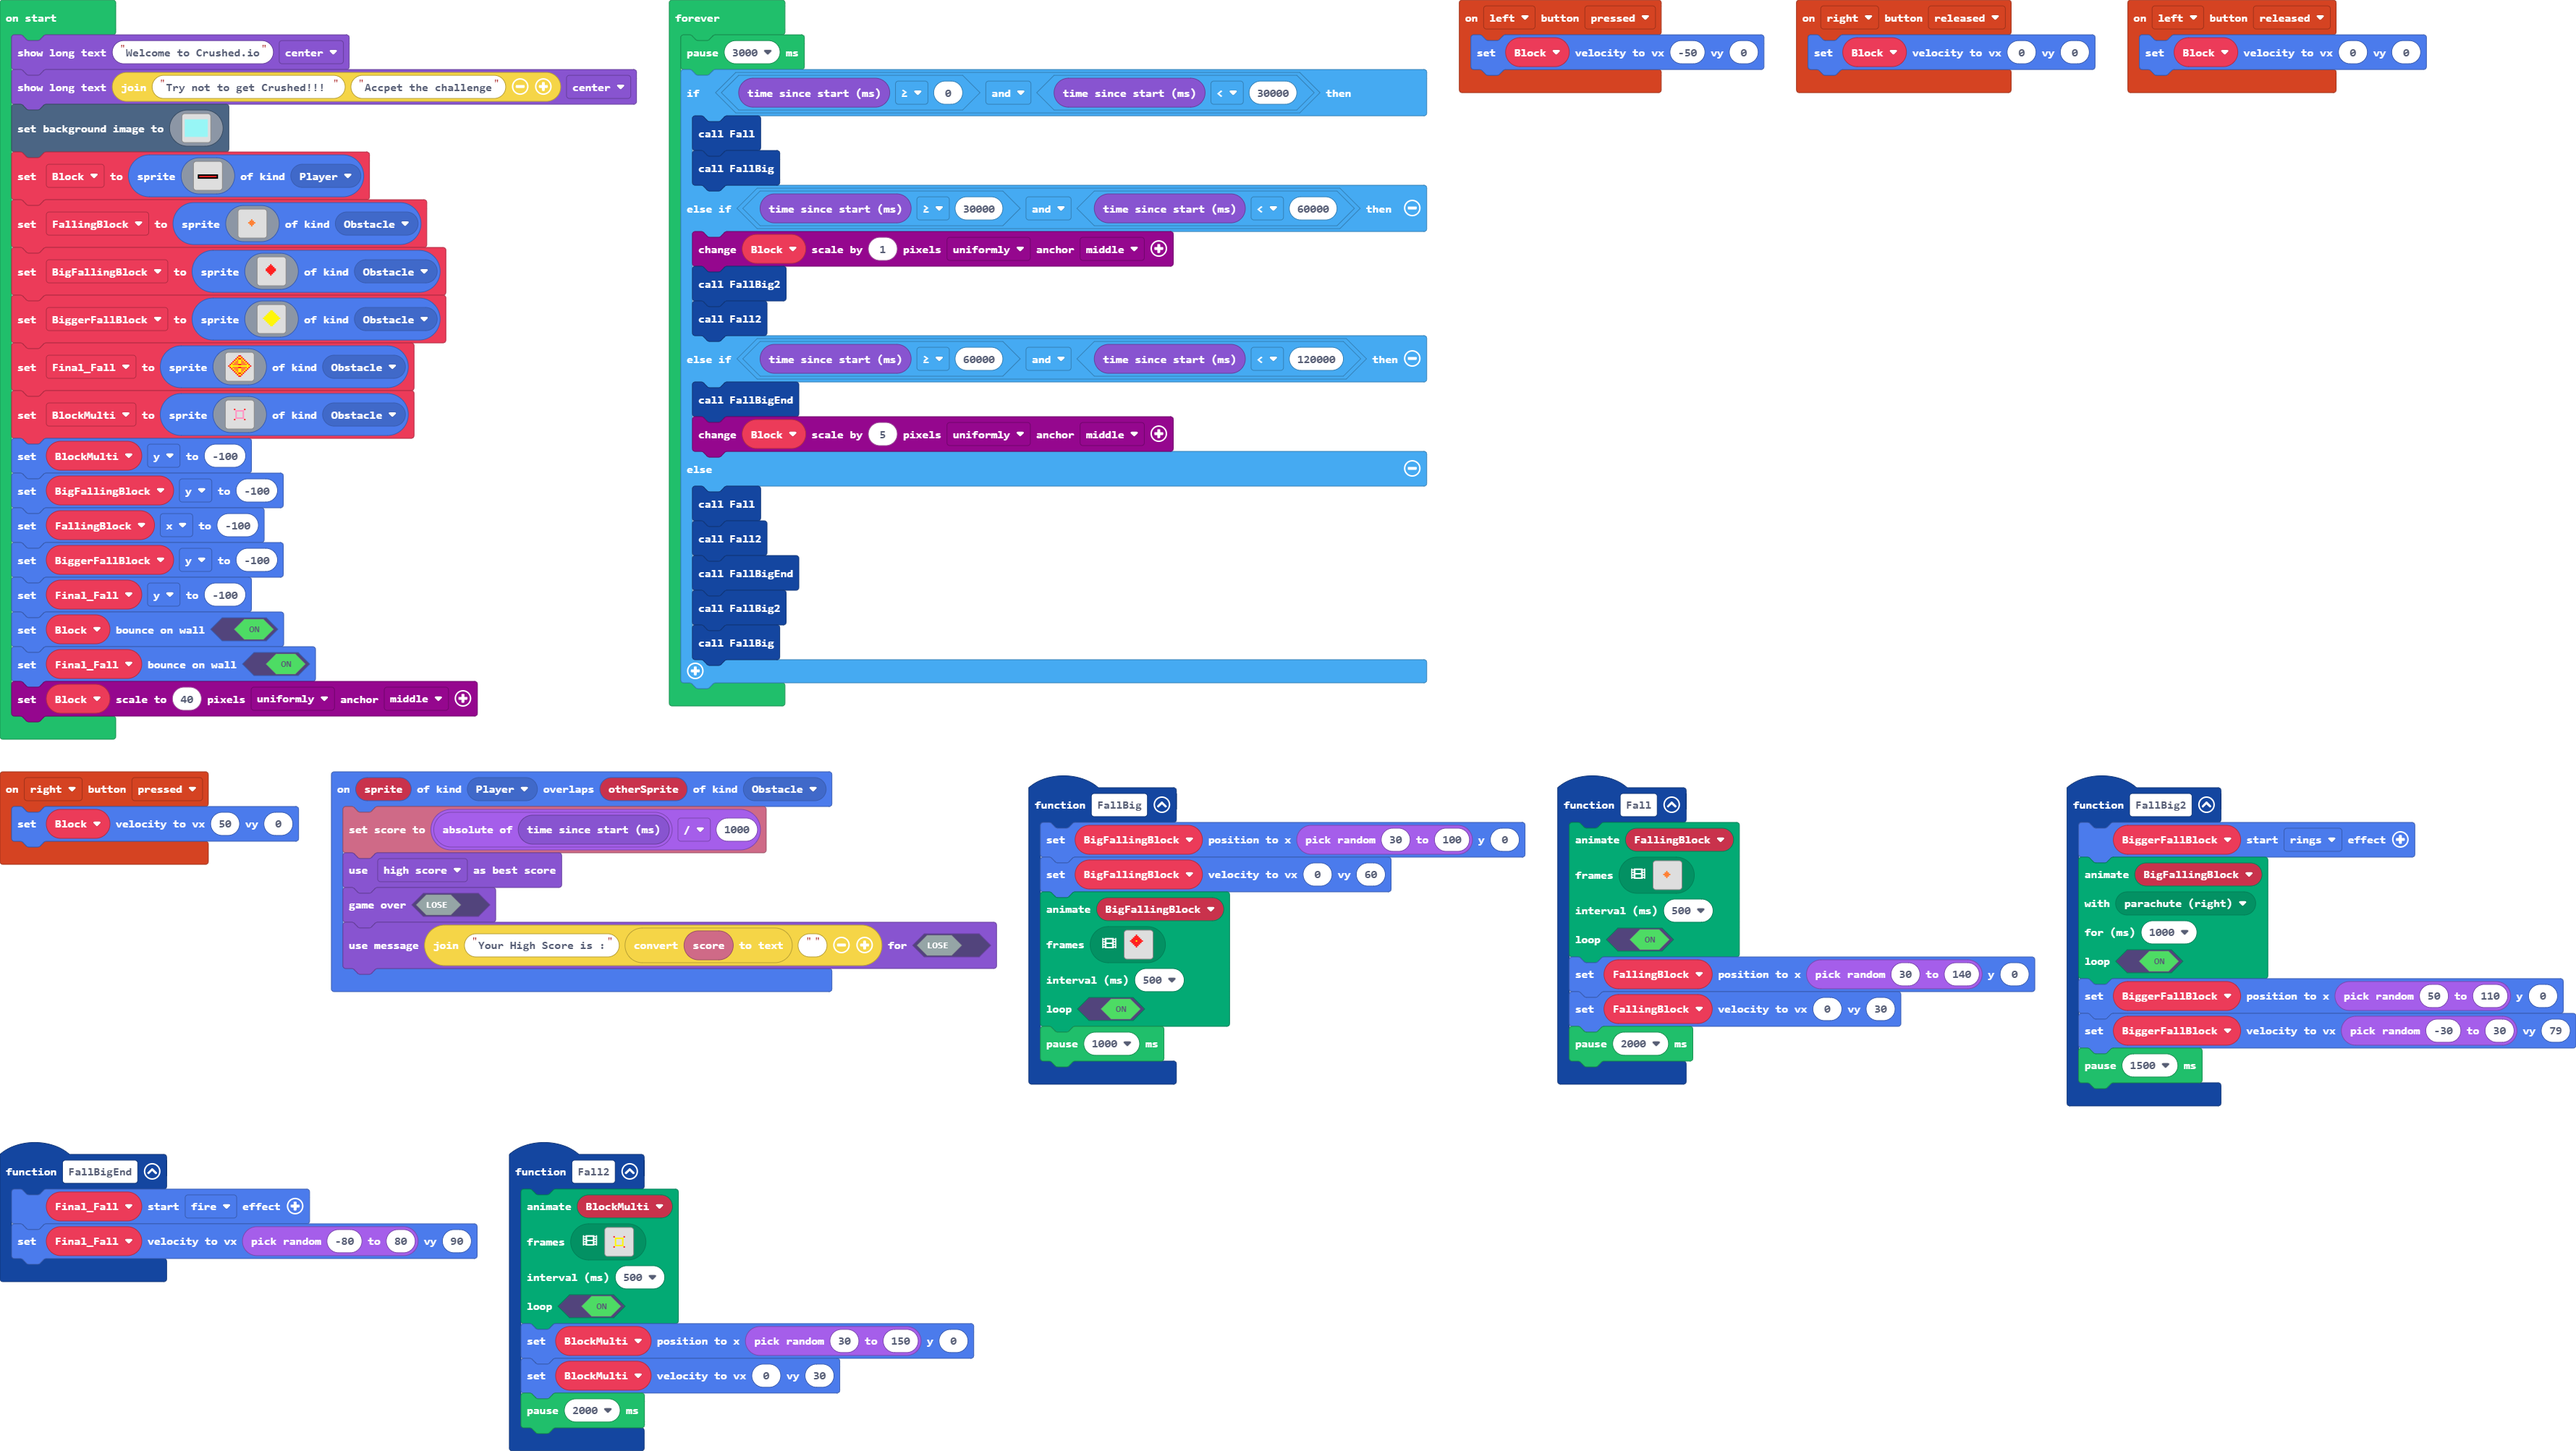
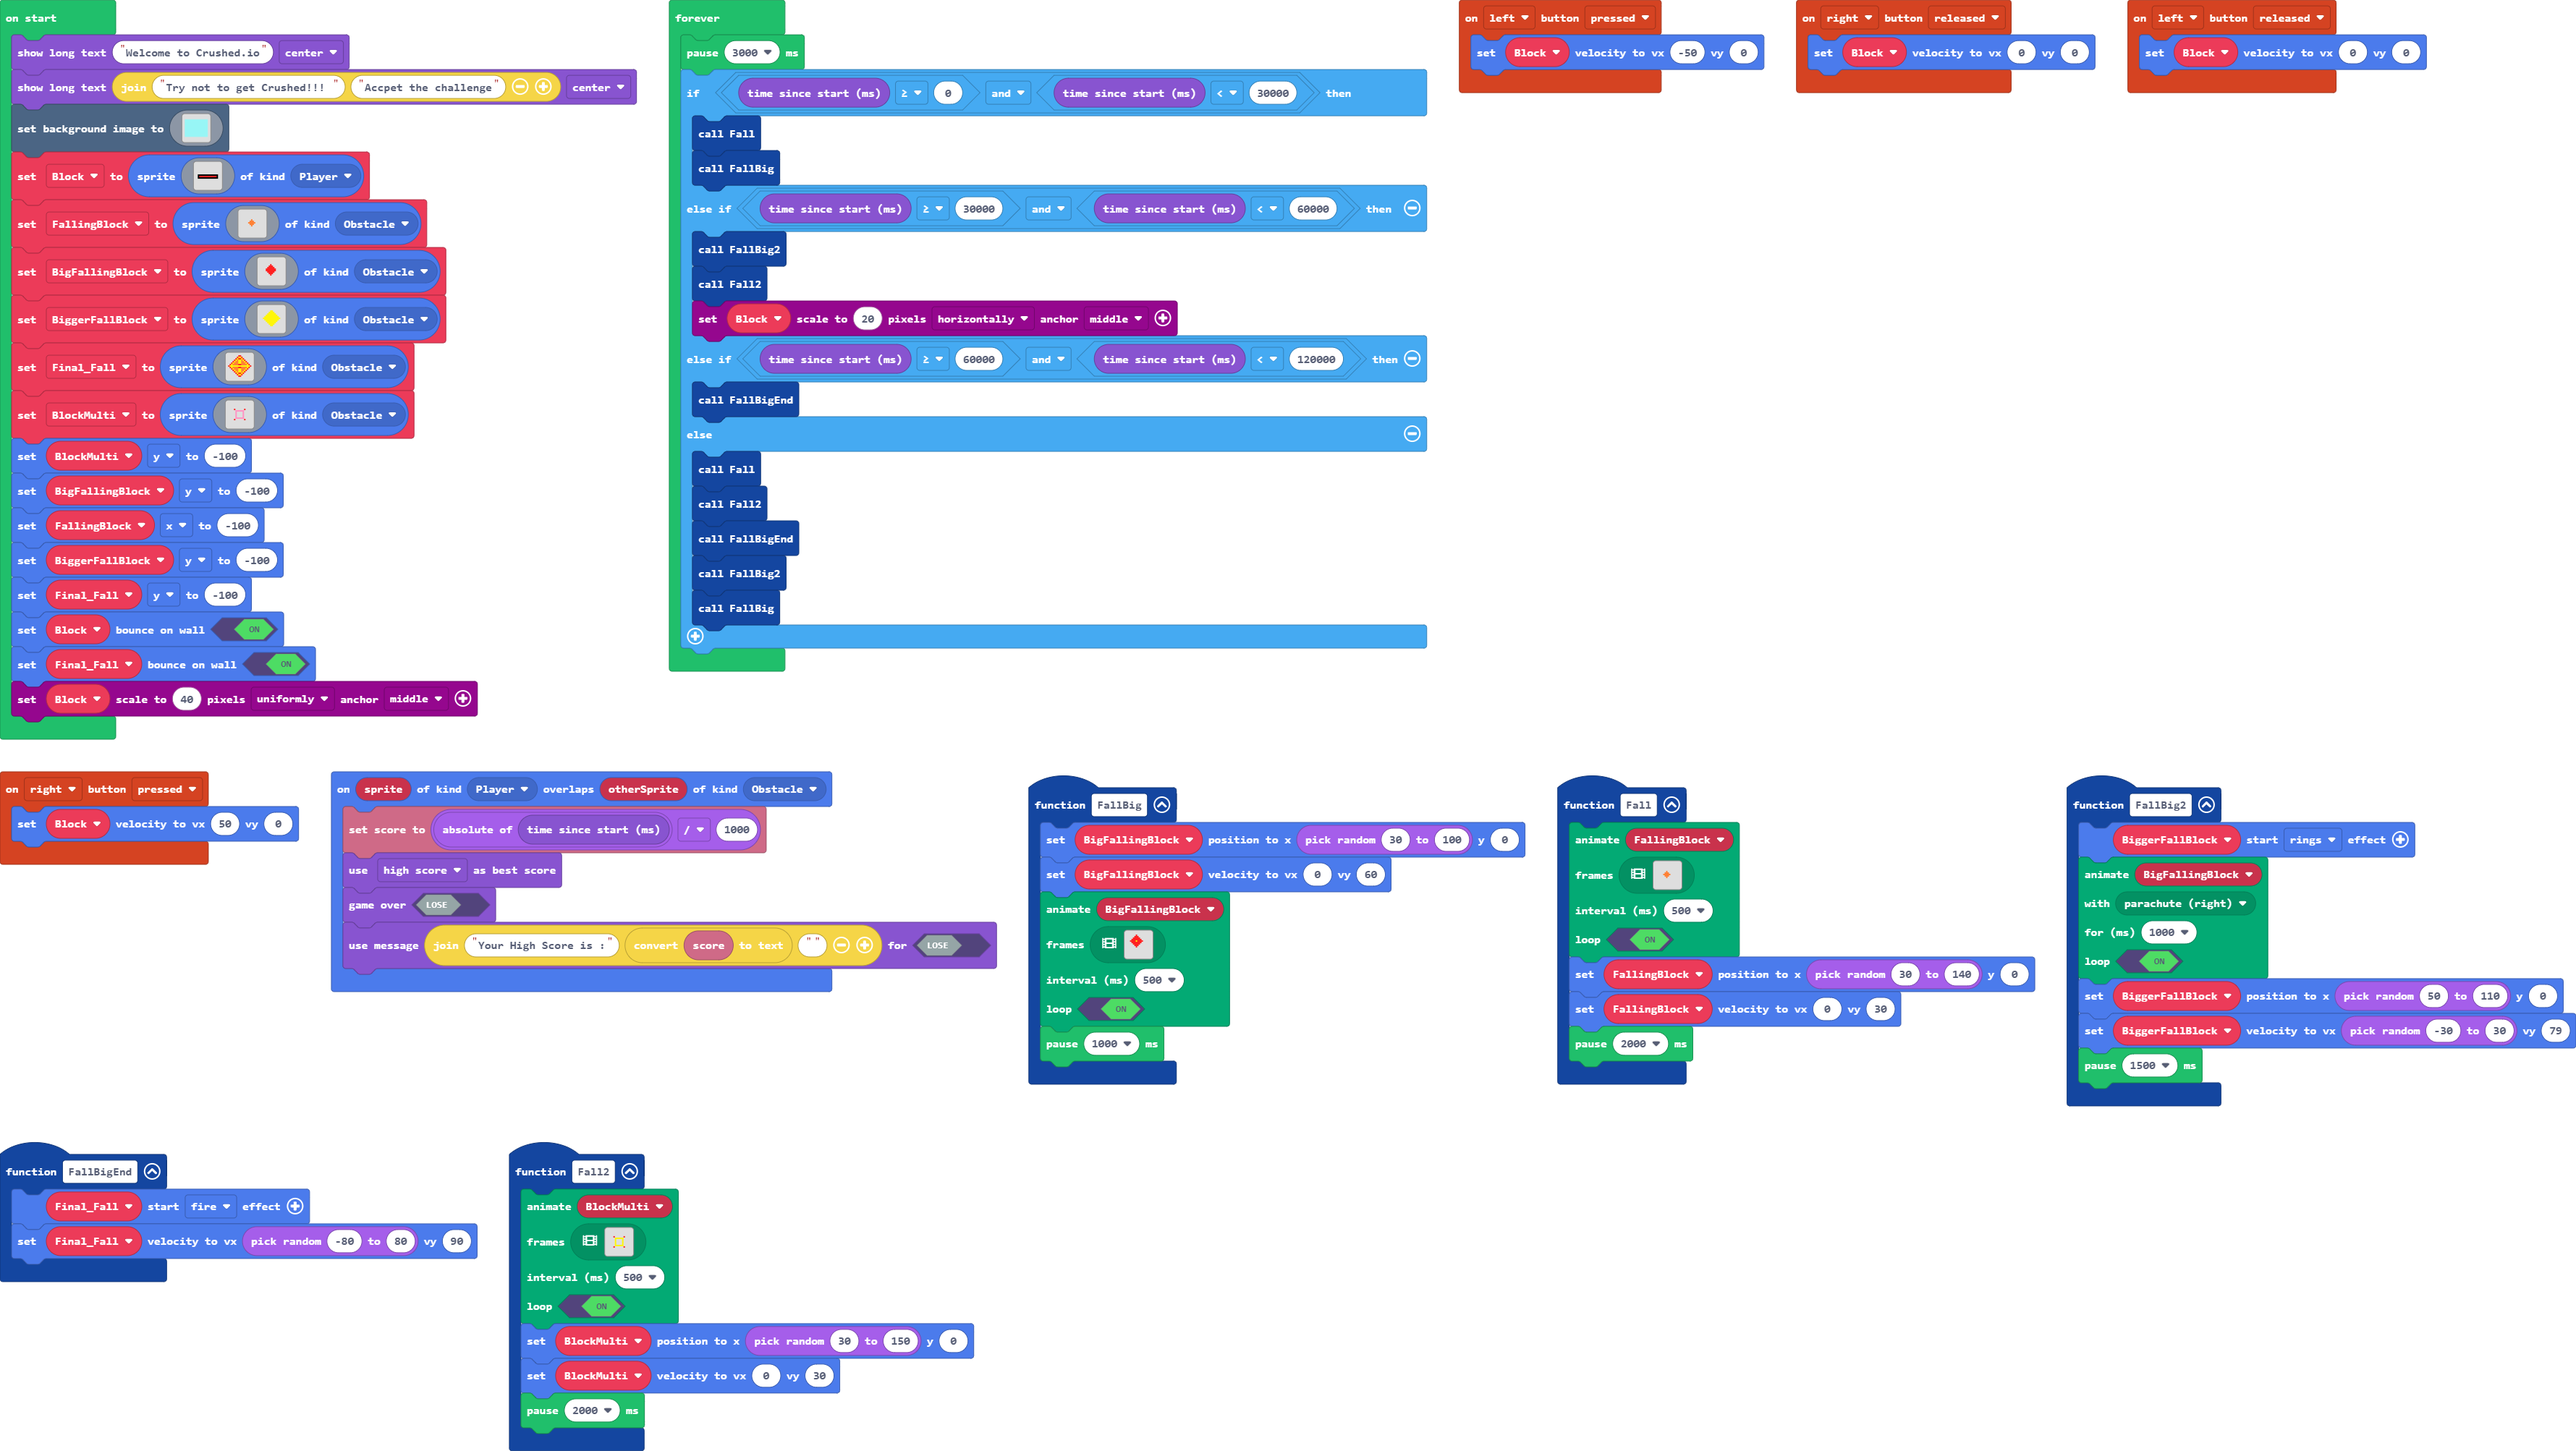
Update main.blocks, main.ts

Changed region(s): [[0.2494, 0.2782, 0.5612, 0.4945], [0.2494, 0.1545, 0.4677, 0.2473]]

diff --git a/main.ts b/main.ts
@@ -182,12 +182,11 @@ forever(function () {
         Fall()
         FallBig()
     } else if (game.runtime() >= 30000 && game.runtime() < 60000) {
-        scaling.scaleByPixels(Block, 1, ScaleDirection.Uniformly, ScaleAnchor.Middle)
         FallBig2()
         Fall2()
+        scaling.scaleToPixels(Block, 20, ScaleDirection.Horizontally, ScaleAnchor.Middle)
     } else if (game.runtime() >= 60000 && game.runtime() < 120000) {
         FallBigEnd()
-        scaling.scaleByPixels(Block, 5, ScaleDirection.Uniformly, ScaleAnchor.Middle)
     } else {
         Fall()
         Fall2()
